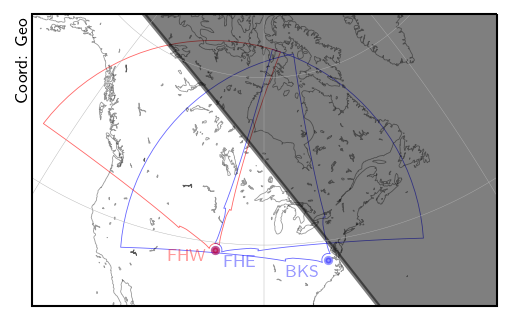
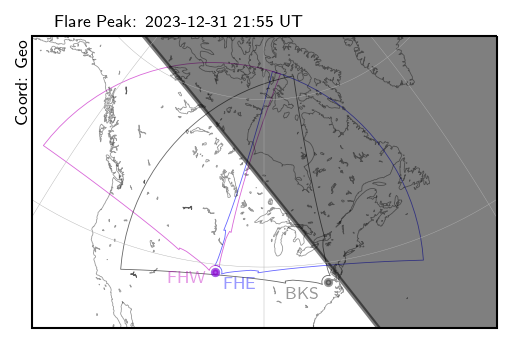
Updated plots

diff --git a/py/drap.py b/py/drap.py
@@ -49,6 +49,9 @@ class DRAP(object):
         for i, lat in enumerate(lats):
             for j, lon in enumerate(lons):
                 absp[i,j] = self.calc_absorption(lat, lon, date, F)
+
+        drap_absp = np.zeros_like(lat_grd)*np.nan
+        
         self.draw_image(date, lat_grd, lon_grd, absp)
         return
 
@@ -79,17 +82,6 @@ class DRAP(object):
         )
         ax.overaly_coast_lakes(lw=0.4, alpha=0.4)
         ax.set_extent([-180, 180, -90, 90], crs=cartopy.crs.PlateCarree())
-        # plt_lons = np.arange(-180, 181, 15)
-        # mark_lons = np.arange(-180, 181, 30)
-        # plt_lats = np.arange(40, 90, 10)
-        # gl = ax.gridlines(crs=cartopy.crs.PlateCarree(), linewidth=0.5)
-        # gl.xlocator = mticker.FixedLocator(plt_lons)
-        # gl.ylocator = mticker.FixedLocator(plt_lats)
-        # gl.xformatter = LONGITUDE_FORMATTER
-        # gl.yformatter = LATITUDE_FORMATTER
-        # gl.n_steps = 90
-        # ax.mark_latitudes(plt_lats, fontsize="small", color="darkred")
-        # ax.mark_longitudes(mark_lons, fontsize="small", color="darkblue")
         self.proj = proj
         self.geo = cartopy.crs.PlateCarree()
         ax.text(

diff --git a/py/fetchUtils.py b/py/fetchUtils.py
@@ -649,9 +649,11 @@ class SDAnalysis(object):
         if len(df) > 0:
             df = df.groupby("time").count().reset_index()
             timings = self.fetch_parameters(smooth(np.array(df.v)), df.time.tolist())
-            from pytz import timezone
+            import pytz
+            cet = pytz.timezone('US/Central')
+            offset = cet.utcoffset(df.time.tolist()[0],is_dst = True)
             local_times = [
-                t.to_pydatetime().astimezone(timezone("US/Central")) 
+                t + offset
                 for t in df.time.tolist()
             ]
             ax.plot(df.time, df.v, "ko", ms=1.2, alpha=0.8)

diff --git a/py/summary.py b/py/summary.py
@@ -106,6 +106,15 @@ class Summary(object):
         self.proj = proj
         self.geo = cartopy.crs.PlateCarree()
         ax.text(
+            0.05,
+            1.05,
+            f"Flare Peak: {self.event_peaktime.to_pydatetime().strftime('%Y-%m-%d %H:%M')} UT",
+            ha="left",
+            va="center",
+            transform=ax.transAxes,
+            fontsize=4,
+        )
+        ax.text(
             -0.02,
             0.99,
             "Coord: Geo",
